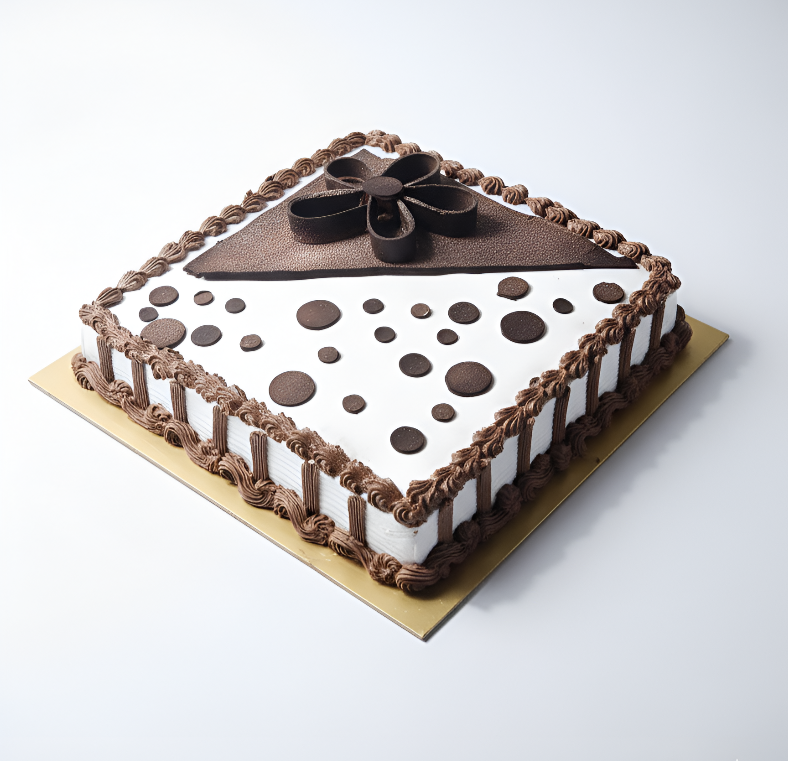
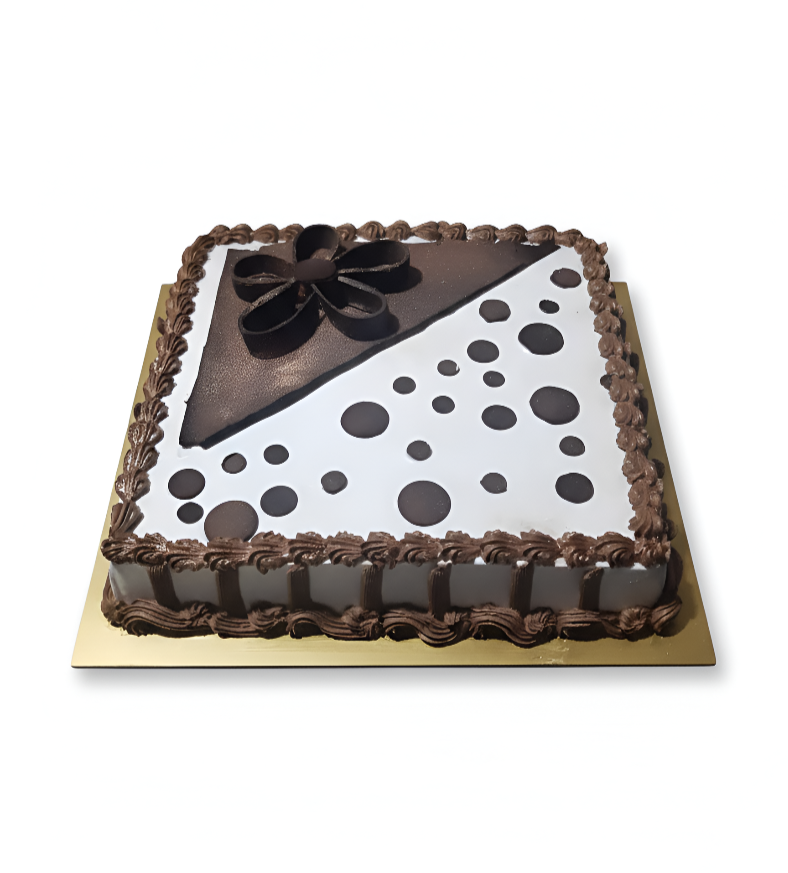
Changes in chocolate cake page (added new image)

diff --git a/cakePages/chocolateCake.html b/cakePages/chocolateCake.html
@@ -255,7 +255,7 @@
     <div class="container mx-auto">
       <div class="grid grid-cols-1 lg:grid-cols-2 gap-8 md:gap-8">
         <div class="cake-image-container fade-in-up dark:bg-zinc-800 rounded-3xl p-8">
-          <img src="https://ik.imagekit.io/ChaarusFoods/chocolateCake.png?updatedAt=1760197938995" class="w-full h-auto drop-shadow-2xl bg-white dark:bg-zinc-800 rounded-2xl p-4" alt="Chocolate Cake">
+          <img src="https://ik.imagekit.io/ChaarusFoods/chocolateCake.png?updatedAt=1760251369294" class="w-full h-auto drop-shadow-2xl bg-white dark:bg-zinc-800 rounded-2xl p-4" alt="Chocolate Cake">
         </div>
         <div class="space-y-4 md:space-y-4 fade-in-up bg-white dark:bg-zinc-800 rounded-3xl p-8">
           <h1 class="font-bold text-3xl sm:text-4xl md:text-5xl lg:text-6xl text-golden leading-tight text-center lg:text-left" style="color: #DFBD69;">Chocolate Cake</h1>
